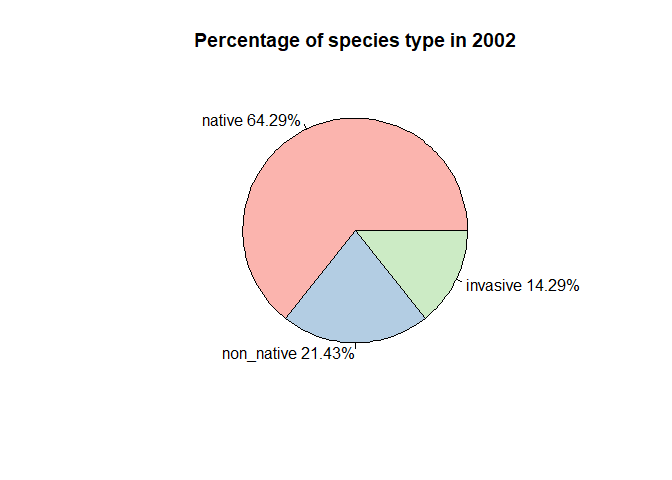
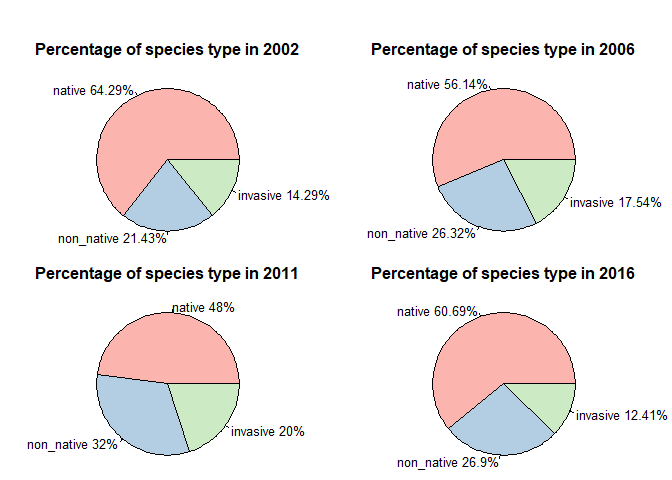
Complete anlysis for CST 1937-2011. Added Pie charts

diff --git a/Deliverables/5 RScript/vikash-rScript.md b/Deliverables/5 RScript/vikash-rScript.md
@@ -1,15 +1,17 @@
 R-Script
 ================
 
-Reading Source Files
---------------------
+New York Botanical Garden Analysis
+==================================
 
-The source files used are the cleaned files, the documentation for which can be found in [here](Deliverables/4%20Data%20Cleaning/Data%20Cleaning.md)
+1. Trend in native, non-native and invasive species over the years
+------------------------------------------------------------------
 
--   Comprehensive Species Tally (1937-2016)
--   NYBG Restoration Planting (2007-2018)
+The source files used for this analysis are already cleaned, the documentation for which can be found in [here](Deliverables/4%20Data%20Cleaning/Data%20Cleaning.md)
 
-**Comprehensive Species Tally (1937-2016)**
+File Used - Comprehensive Species Tally (1937-2016)
+
+\*\* Reading the file\*\*
 
 ``` r
 cst <- read.csv("src/Comprehensive Species Tally 1937-2016.csv", na.strings = "na")
@@ -39,26 +41,7 @@ head(cst)
     ## 5        n
     ## 6        n
 
-**NYBG Restoration Planting (2007-2018)**
-
-``` r
-restoration <- read.csv("src/NYBG Forest Restoration Plantings 2007-2018.csv")
-restoration <- restoration[,-c(1,6,7,9)]
-head(restoration)
-```
-
-    ##   Qty                Taxon Plant.Type Height..inches. Date.Planted
-    ## 1   4      Quercus bicolor       Tree            >=24     5/1/2007
-    ## 2   5 Hamamelis virginiana      Shrub            >=24   11/11/2007
-    ## 3   4 Hamamelis virginiana      Shrub            >=24   11/11/2007
-    ## 4  12    Viburnum dentatum      Shrub            >=24   11/11/2007
-    ## 5  12    Viburnum dentatum      Shrub            >=24   11/11/2007
-    ## 6  12 Viburnum prunifolium      Shrub            >=24   11/11/2007
-
-Comprehensive Species Tally
----------------------------
-
-Quick summary of the dataset
+**Quick summary of the dataset**
 
 ``` r
 cst$Survey.Year <- factor(cst$Survey.Year)
@@ -90,7 +73,9 @@ summary(cst)
     ##          
     ## 
 
-To analyze the variation of native, non-native and invasive species by years, we need to create a simplified dataframe.
+### Simplifying the dataframe
+
+To analyze the variation of native, non-native and invasive species by years, we need to create a simplified dataframe, that gives us the count by years
 
 ``` r
 #Create sub-tables
@@ -121,7 +106,7 @@ head(cst_trend)
 
 ### Plotting the number of species by survey years
 
-We will first reshape the dataframe to suit our needs and then plot it using ggplot. Reshape2 package has cast and melt functions that can be used to change a the dataframe between wide and long format.
+We will first reshape the dataframe to suit our needs and then plot it using ggplot. Reshape2 package has cast and melt functions that can be used to change a dataframe between wide and long format.
 
 ``` r
 #Reshaping the dataframe
@@ -155,15 +140,18 @@ line
 
 ![](vikash-rScript_files/figure-markdown_github/cst_plot_2002-1.png)
 
+There is a clear growth in the total number of species in all the three types - native, non-native and invasive. Although, the number of species has been increasing for all these three types, the growth in invasive species seems to be declining after 2012. We can get a better picture by analyzing the percentage species by every year.
+
 Percentage change over years
 ============================
 
-From the above plots, it is evident that number of native species has increased a lot, due to management efforts compared to non-native and invasive species. Even though there is an increase in invasive species, the overall percentage of invasive species has decreased a lot.
+To plot the percentage change, we have used a Pie chart for every year the survey was held (except for 1937).
 
 ``` r
 #Getting some colors
 library("RColorBrewer", lib.loc="~/R/win-library/3.4")
 
+par(mar=c(0, 0, 2, 0), oma=c(0,0,2,0), mfrow=c(2,2))
 #Creating the pie for the year 2002
 count_2002 <- cst_trendL[cst_trendL$year == "2002-01-01",-c(1)]
 slices <- count_2002$count
@@ -174,11 +162,7 @@ labels <- paste(labels, percent)
 labels <- paste(labels, "%", sep="")
 
 pie(slices, labels, main="Percentage of species type in 2002", col=brewer.pal(length(labels),"Pastel1"))
-```
 
-![](vikash-rScript_files/figure-markdown_github/pie_charts_cst-1.png)
-
-``` r
 #Creating pie for 2006
 count_2006 <- cst_trendL[cst_trendL$year == "2006-01-01",-c(1)]
 slices <- count_2006$count
@@ -189,9 +173,53 @@ labels <- paste(labels, percent)
 labels <- paste(labels, "%", sep="")
 
 pie(slices, labels, main="Percentage of species type in 2006", col=brewer.pal(length(labels),"Pastel1"))
+
+#Creating pie for 2011
+count_2011 <- cst_trendL[cst_trendL$year == "2011-01-01",-c(1)]
+slices <- count_2011$count
+
+labels <-  count_2011$type
+percent <- round(slices/sum(slices)*100, digits = 2)
+labels <- paste(labels, percent)
+labels <- paste(labels, "%", sep="")
+
+pie(slices, labels, main="Percentage of species type in 2011", col=brewer.pal(length(labels),"Pastel1"))
+
+#Creating pie for 2016
+count_2016 <- cst_trendL[cst_trendL$year == "2016-01-01",-c(1)]
+slices <- count_2016$count
+
+labels <-  count_2016$type
+percent <- round(slices/sum(slices)*100, digits = 2)
+labels <- paste(labels, percent)
+labels <- paste(labels, "%", sep="")
+
+pie(slices, labels, main="Percentage of species type in 2016", col=brewer.pal(length(labels),"Pastel1"))
 ```
 
-![](vikash-rScript_files/figure-markdown_github/pie_charts_cst-2.png)
+![](vikash-rScript_files/figure-markdown_github/pie_charts_cst-1.png)
+
+From the pies, we can see that the percentage of native species has almost been constant over the period of 14 years. From 64.29% in 2002, it decreased till 48% in 2011, and then increased again to 60.69%. There is a minor increase in the %age of non-native species and is at its highest (26.9%) in 2016. The %age of invasive species although increased from 14.29% to 20% in 2011, decreased to its lowest (12.41%) in 2016.
+
+If we combine our findings to the trend in species count that we found earlier, we can infer that even though the number of species have increased over the past years, the invasive speices have been controlled more effectively after 2011.
+
+**NYBG Restoration Planting (2007-2018)**
+
+-   NYBG Restoration Planting (2007-2018)
+
+``` r
+restoration <- read.csv("src/NYBG Forest Restoration Plantings 2007-2018.csv")
+restoration <- restoration[,-c(1,6,7,9)]
+head(restoration)
+```
+
+    ##   Qty                Taxon Plant.Type Height..inches. Date.Planted
+    ## 1   4      Quercus bicolor       Tree            >=24     5/1/2007
+    ## 2   5 Hamamelis virginiana      Shrub            >=24   11/11/2007
+    ## 3   4 Hamamelis virginiana      Shrub            >=24   11/11/2007
+    ## 4  12    Viburnum dentatum      Shrub            >=24   11/11/2007
+    ## 5  12    Viburnum dentatum      Shrub            >=24   11/11/2007
+    ## 6  12 Viburnum prunifolium      Shrub            >=24   11/11/2007
 
 End
 ===
